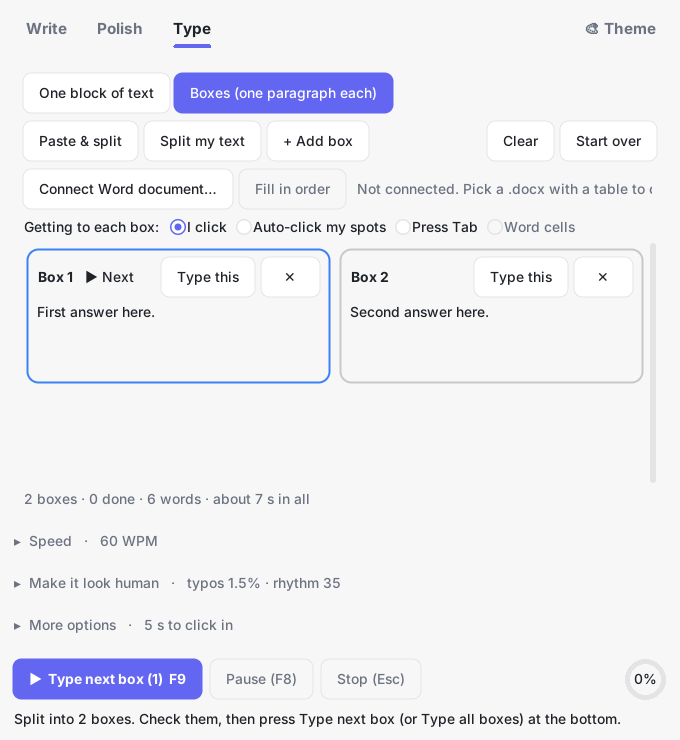
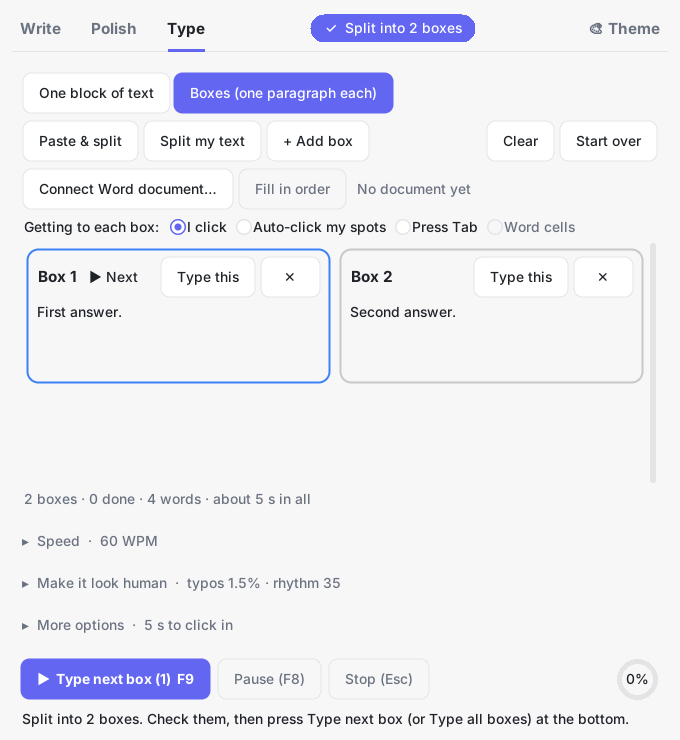
Tidier design system: one left edge, matching headings, a cleaner tab bar
- Design tokens in one place: GUTTER (20 px from the window edge to the content)
  and WRAP (where long messages wrap). Speed, Make it look human, More options,
  the Start row and the status line now line up with the tab pages and the tab
  names, instead of sitting 8 px further left.
- A small type scale (title and heading fonts) that follows the theme's font,
  used for the Connect Claude title and option names, the box titles and the
  reference window, instead of one-off font sizes.
- Tab bar: a thin line under the tabs with the accent underline sitting on it;
  the Theme button lines up with the right edge of the content.
- The ✓ message now drops into the empty middle of the tab bar, so it no longer
  covers the Start/Pause/Stop buttons.
- Shorter labels that fit on one line: the fix level ("3: + grammar") and the
  Word document line ("No document yet"); tighter folded section headings.
- README screenshots updated.

Claude-Session: https://claude.ai/code/session_01WArWrA2Db7EHnymkGkMT6a

diff --git a/human_typer.py b/human_typer.py
@@ -2549,6 +2549,12 @@ def ease_out(t):
     return 1 - (1 - t) ** 3
 
 
+# The design system in one place: every screen lines up on the same left edge
+# (GUTTER from the window's side), long messages wrap at the same width, and text
+# comes in three sizes (title, heading, body; made in App._fonts).
+GUTTER = 20          # window edge to content, in pixels
+WRAP = 620           # long messages wrap here
+
 # Border colours for the boxes.
 BOX_IDLE, BOX_NEXT, BOX_TYPING, BOX_DONE = "#c8c8c8", "#3b82f6", "#f59e0b", "#22a559"
 
@@ -2599,6 +2605,7 @@ class App:
         self.box_cols = 0
         self.run = None      # what the typist is doing right now
 
+        self._fonts()
         self._build()
         self._start_hotkeys()
         for var in (self.wpm, self.random_speed, self.wpm_lo, self.wpm_hi):
@@ -2616,9 +2623,22 @@ class App:
         if self.typist_error:
             self.status.set(self.typist_error)
 
+    # ----- type scale -----
+    def _fonts(self, family=None, size=None):
+        """Title and heading fonts, made once and updated with the theme, so every
+        heading in the app (and its pop-up windows) matches."""
+        base = tkfont.nametofont("TkDefaultFont")
+        family = family or base.cget("family")
+        size = size or base.cget("size")
+        bigger = lambda d: size + d if size > 0 else size - d      # Tk sizes below 0 are pixels
+        if not hasattr(self, "font_title"):
+            self.font_title, self.font_head = tkfont.Font(), tkfont.Font()
+        self.font_title.configure(family=family, size=bigger(4), weight="bold")
+        self.font_head.configure(family=family, size=bigger(1), weight="bold")
+
     # ----- layout -----
     def _build(self):
-        pad = {"padx": 12, "pady": 6}
+        pad = {"padx": GUTTER, "pady": 6}
         main = self.main = ttk.Frame(self.root)
         main.pack(fill="both", expand=True)
         font = ("", 14 if IS_MAC else 11)
@@ -2676,7 +2696,7 @@ class App:
         ttk.Button(doc, text="Connect Word document…", command=self._connect_word).pack(side="left")
         self.fill_btn = ttk.Button(doc, text="Fill in order", command=self._fill_in_order, state="disabled")
         self.fill_btn.pack(side="left", padx=4)
-        self.word_info = tk.StringVar(value="Not connected. Pick a .docx with a table to choose a cell for each box.")
+        self.word_info = tk.StringVar(value="No document yet")
         ttk.Label(doc, textvariable=self.word_info, foreground="#555").pack(side="left", padx=4)
 
         mode = ttk.Frame(grid)
@@ -2779,9 +2799,10 @@ class App:
         self.stop_btn.pack(side="left")
 
         self.progress = ttk.Progressbar(bottom, maximum=100)
-        self.progress.pack(fill="x", padx=12, pady=(4, 2))
+        self.progress.pack(fill="x", padx=GUTTER, pady=(4, 2))
         self.status = tk.StringVar(value="Paste some text, pick a speed, then press Start.")
-        ttk.Label(bottom, textvariable=self._shown(self.status), wraplength=640, justify="left").pack(anchor="w", padx=12, pady=(0, 10))
+        ttk.Label(bottom, textvariable=self._shown(self.status), wraplength=WRAP, justify="left").pack(
+            anchor="w", padx=GUTTER, pady=(0, 10))
 
     # ----- Write tab: chat with Claude -----
     def _build_write_tab(self, font):
@@ -2840,7 +2861,7 @@ class App:
         ttk.Button(use, text="Copy", command=lambda: (self._copy(self._chat_pick()),
                                                      self.chat_status.set("Copied."))).pack(side="right")
         self.chat_status = tk.StringVar(value="")
-        ttk.Label(tab, textvariable=self._shown(self.chat_status), wraplength=620, justify="left").pack(
+        ttk.Label(tab, textvariable=self._shown(self.chat_status), wraplength=WRAP, justify="left").pack(
             anchor="w", pady=(6, 0))
         self._chat_welcome()
 
@@ -3067,7 +3088,7 @@ class App:
         self.check_summary = tk.StringVar(
             value="Paste text here (or press Use this ➜ in Write). Humanise it, check it, then Send to Type.")
         self.rw_status = self.check_summary          # one message line for the whole tab
-        ttk.Label(tab, textvariable=self._shown(self.check_summary), wraplength=620, justify="left").pack(
+        ttk.Label(tab, textvariable=self._shown(self.check_summary), wraplength=WRAP, justify="left").pack(
             anchor="w", pady=(6, 0))
         self._on_check_level(3)
         for var in (self.rw_audience, self.rw_format, self.rw_model):
@@ -3216,6 +3237,7 @@ class App:
                 self._toast_label = None
             self._fade_window(1.0, 1.0, 1)
             st.theme_use(self._classic_theme)
+            self._fonts()
             self.tabbar.pack_forget()
             self.root.configure(background=self._classic_root_bg)
         else:
@@ -3224,6 +3246,7 @@ class App:
                                     "DejaVu Sans", "Helvetica") if f in tkfont.families()), "TkDefaultFont")
             size = 13 if IS_MAC else 10
             base = (fam, size)
+            self._fonts(fam, size)
             st.configure(".", background=pal["bg"], foreground=pal["text"], fieldbackground=pal["field"],
                          bordercolor=pal["border"], lightcolor=pal["bg"], darkcolor=pal["bg"],
                          troughcolor=pal["border"], focuscolor=pal["accent"], selectbackground=pal["sel"],
@@ -3278,9 +3301,10 @@ class App:
             self.root.configure(background=pal["bg"])
             self._rounded(pal, name)
             if not self.tabbar.winfo_ismapped():
-                self.tabbar.pack(fill="x", padx=12, pady=(8, 0), before=self.tabs)
+                self.tabbar.pack(fill="x", padx=GUTTER - 8, pady=(8, 0), before=self.tabs)
             self.tabbar.configure(background=pal["bg"])
             self._layout_tabbar(animate=False)
+        self.style.configure("Head.TRadiobutton", font=self.font_head)
         self._style_tree(self.root, pal)
         self._sections(pal)
         self._cards(pal)
@@ -3339,7 +3363,8 @@ class App:
             f.configure(size=(f.cget("size") or 10) + 1, weight="bold")
         except tk.TclError:
             f = tkfont.nametofont("TkDefaultFont")
-        x, self._tab_x = 4, {}
+        c.create_line(0, 43, c.winfo_width(), 43, fill=pal["border"])     # hairline under the tabs
+        x, self._tab_x = -2, {}
         current = self.tabs.index("current")
         for i, name in enumerate(TAB_NAMES):
             if self.tabs.tab(i, "state") == "hidden":
@@ -3347,7 +3372,7 @@ class App:
             w = f.measure(name)
             colour = pal["text"] if i == current else pal["muted"]
             # The whole tab area takes the click, not just the letters.
-            hit = c.create_rectangle(x, 0, x + w + 20, 44, fill=pal["bg"], outline="")
+            hit = c.create_rectangle(x, 0, x + w + 20, 42, fill=pal["bg"], outline="")
             item = c.create_text(x + 10, 20, text=name, anchor="w", font=f, fill=colour, tags=(f"tab{i}", "tab"))
             for it in (hit, item):
                 c.tag_bind(it, "<Button-1>", lambda e, i=i: self.tabs.select(i))
@@ -3356,8 +3381,8 @@ class App:
             self._tab_x[i] = (x + 10, x + 10 + w)
             x += w + 30
         a, b = self._tab_x[current]
-        self._underline = c.create_line(a + 2, 38, b - 2, 38, fill=pal["accent"], width=4, capstyle="round")
-        btn = c.create_text(c.winfo_width() - 12, 20, text="🎨 Theme", anchor="e", font=f, fill=pal["muted"])
+        self._underline = c.create_line(a + 2, 42, b - 2, 42, fill=pal["accent"], width=3, capstyle="round")
+        btn = c.create_text(c.winfo_width() - 8, 20, text="🎨 Theme", anchor="e", font=f, fill=pal["muted"])
         c.tag_bind(btn, "<Button-1>", lambda e: self.theme_menu.tk_popup(e.x_root, e.y_root))
         c.tag_bind(btn, "<Enter>", lambda e, it=btn: self._tab_hover(it, True))
         c.tag_bind(btn, "<Leave>", lambda e, it=btn: self._tab_hover(it, False))
@@ -3407,7 +3432,7 @@ class App:
             head = getattr(frame, "_head", None)
             if head is not None:
                 head.configure(text=("▸  " if frame._folded else "▾  ") + frame._title
-                               + (f"   ·   {summary}" if frame._folded else ""))
+                               + (f"  ·  {summary}" if frame._folded else ""))
 
     def _fold(self, frame, fold, animate=True):
         self.root.update_idletasks()
@@ -3652,7 +3677,7 @@ class App:
             self.ring.pack_forget()
             self.rw_ring.pack_forget()
             if not self.progress.winfo_ismapped():
-                self.progress.pack(fill="x", padx=12, pady=(4, 2), after=self.ctl)
+                self.progress.pack(fill="x", padx=GUTTER, pady=(4, 2), after=self.ctl)
             return
         self.progress.pack_forget()
         for ring in (self.ring, self.rw_ring):
@@ -3840,11 +3865,11 @@ class App:
         (a0, b0), (a1, b1) = self._underline_at, self._tab_x[i]
         self._underline_at = (a1, b1)
         if not self.animations.get():
-            self.tabbar.coords(self._underline, a1 + 2, 38, b1 - 2, 38)
+            self.tabbar.coords(self._underline, a1 + 2, 42, b1 - 2, 42)
             return
 
         def step(t):
-            self.tabbar.coords(self._underline, a0 + (a1 - a0) * t + 2, 38, b0 + (b1 - b0) * t - 2, 38)
+            self.tabbar.coords(self._underline, a0 + (a1 - a0) * t + 2, 42, b0 + (b1 - b0) * t - 2, 42)
         step(1.0)                          # straight away: no waiting on a tab click
         # and the page itself slides in a little
 
@@ -3899,7 +3924,8 @@ class App:
         return shown
 
     def _toast(self, text):
-        """A small rounded message that slides up from the bottom of the window, then away."""
+        """A small rounded message in the empty middle of the tab bar (so it never
+        covers a button), which drops in and then lifts away."""
         pal = self._pal
         if not pal:
             return
@@ -3907,8 +3933,8 @@ class App:
         if old is not None:
             old.destroy()
         font = tkfont.Font(font=self.style.lookup(".", "font") or "TkDefaultFont")
-        msg = "✓  " + text[:60]
-        w, h = font.measure(msg) + 36, font.metrics("linespace") + 18
+        msg = "✓  " + (text if len(text) <= 34 else text[:33] + "…")
+        w, h = font.measure(msg) + 28, font.metrics("linespace") + 10
         c = self._toast_label = tk.Canvas(self.root, width=w, height=h, highlightthickness=0, bd=0,
                                           background=pal["bg"])
         r = h / 2
@@ -3916,10 +3942,14 @@ class App:
         c.create_oval(w - h, 0, w, h, fill=pal["accent"], outline="")
         c.create_rectangle(r, 0, w - r, h, fill=pal["accent"], outline="")
         c.create_text(w / 2, h / 2, text=msg, fill=pal["accent_text"], font=font)
-        self._tween("toast", 380, lambda t: c.place(relx=0.5, rely=1.0, y=40 - 100 * t, anchor="s"),
-                    then=lambda: self.root.after(1700, lambda: self._tween(
-                        "toast", 300, lambda t: c.place(relx=0.5, rely=1.0, y=-60 + 120 * t, anchor="s"),
-                        then=c.destroy)))
+        if not self.tabbar.winfo_ismapped():
+            c.destroy()
+            return
+        c.configure(background=pal["bg"])
+        at = lambda dy: c.place(in_=self.tabbar, relx=0.58, rely=0.0, y=20 + dy, anchor="center")
+        self._tween("toast", 220, lambda t: at(-8 * (1 - t)),
+                    then=lambda: self.root.after(1800, lambda: self._tween(
+                        "toast", 200, lambda t: at(-8 * t), then=c.destroy)))
 
     def _pulse_start(self, on, countdown=None):
         """The Start button gently pulses during the countdown, and the ring spins."""
@@ -4171,13 +4201,13 @@ class App:
         f = ttk.Frame(win, padding=16)
         f.pack(fill="both", expand=True)
         wrap = 470
-        ttk.Label(f, text="Connect Claude", font=("", 14, "bold")).pack(anchor="w")
+        ttk.Label(f, text="Connect Claude", font=self.font_title).pack(anchor="w")
         ttk.Label(f, text="Pick how Human Typer talks to Claude. You can change it any time.",
                   foreground="#555").pack(anchor="w", pady=(2, 8))
 
         def option(value, title, about):
-            ttk.Radiobutton(f, text=title, value=value, variable=self.rw_engine,
-                            command=self._engine_changed).pack(anchor="w", pady=(10, 0))
+            ttk.Radiobutton(f, text=title, value=value, variable=self.rw_engine, style="Head.TRadiobutton",
+                            command=self._engine_changed).pack(anchor="w", pady=(12, 0))
             body = ttk.Frame(f, padding=(26, 2, 0, 0))
             body.pack(fill="x")
             ttk.Label(body, text=about, foreground="#555", wraplength=wrap, justify="left").pack(anchor="w")
@@ -4219,7 +4249,7 @@ class App:
                   justify="left").pack(anchor="w")
 
         ttk.Separator(f).pack(fill="x", pady=14)
-        ttk.Label(f, text="Also: type from the Claude app", font=("", 11, "bold")).pack(anchor="w")
+        ttk.Label(f, text="Also: type from the Claude app", font=self.font_head).pack(anchor="w")
         ttk.Label(f, text="Adds Human Typer to the Claude desktop app, so in any chat there you can say "
                           "“type it with Human Typer at 60 WPM”.", foreground="#555", wraplength=wrap,
                   justify="left").pack(anchor="w")
@@ -4452,7 +4482,7 @@ class App:
         out.grid(row=12, column=0, columnspan=2, sticky="ew", pady=(10, 0))
         in_text, full = tk.StringVar(), tk.StringVar()
         ttk.Label(out, text="In-text:").grid(row=0, column=0, sticky="nw")
-        ttk.Label(out, textvariable=in_text, font=("", 12, "bold")).grid(row=0, column=1, sticky="w")
+        ttk.Label(out, textvariable=in_text, font=self.font_head).grid(row=0, column=1, sticky="w")
         ttk.Label(out, text="Reference:").grid(row=1, column=0, sticky="nw", pady=(4, 0))
         ttk.Label(out, textvariable=full, wraplength=420, justify="left").grid(row=1, column=1, sticky="w", pady=(4, 0))
         ttk.Label(out, text="Put the title in italics in your document (websites and books).",
@@ -4525,7 +4555,7 @@ class App:
 
     def _on_check_level(self, level):
         self.check_level.set(level)
-        self.check_level_name.set(f"{level}: {LEVEL_NAMES[level]}")
+        self.check_level_name.set(f"{level}: {LEVEL_NAMES[level].split(' (')[0]}")
 
     def _on_tab_changed(self):
         # The speed and typing settings are only needed on the Type tab, so hide them for more room.
@@ -4717,7 +4747,7 @@ class App:
         inner.pack(fill="both", expand=True)
         head = ttk.Frame(inner)
         head.pack(fill="x")
-        title = ttk.Label(head, text=f"Box {n}", font=("", 10, "bold"))
+        title = ttk.Label(head, text=f"Box {n}", font=self.font_head)
         title.pack(side="left")
         status = tk.StringVar()
         ttk.Label(head, textvariable=status).pack(side="left", padx=8)

diff --git a/README.md b/README.md
@@ -339,6 +339,8 @@ themes):
     the countdown (with the seconds left) and while a rewrite is being written.
   - **The window's title bar** (where close and minimise are) takes the theme's colour on Windows 11, and goes
     dark or light to match on Windows 10 and Mac. The menu strip is tucked away (the 🎨 button has it).
+  - **Neat and lined up:** every screen shares one left edge, one set of heading sizes and a thin line under
+    the tabs. The ✓ message appears in the tab bar, so it never covers a button.
   - **No waiting:** tabs, buttons, menus, folding sections and messages respond straight away. The rounded parts
     are drawn as a few big pieces, so switching tabs is as quick as in Classic.
   - **Animations** that never hold you up: text boxes glow while you type in them; highlights and box borders
